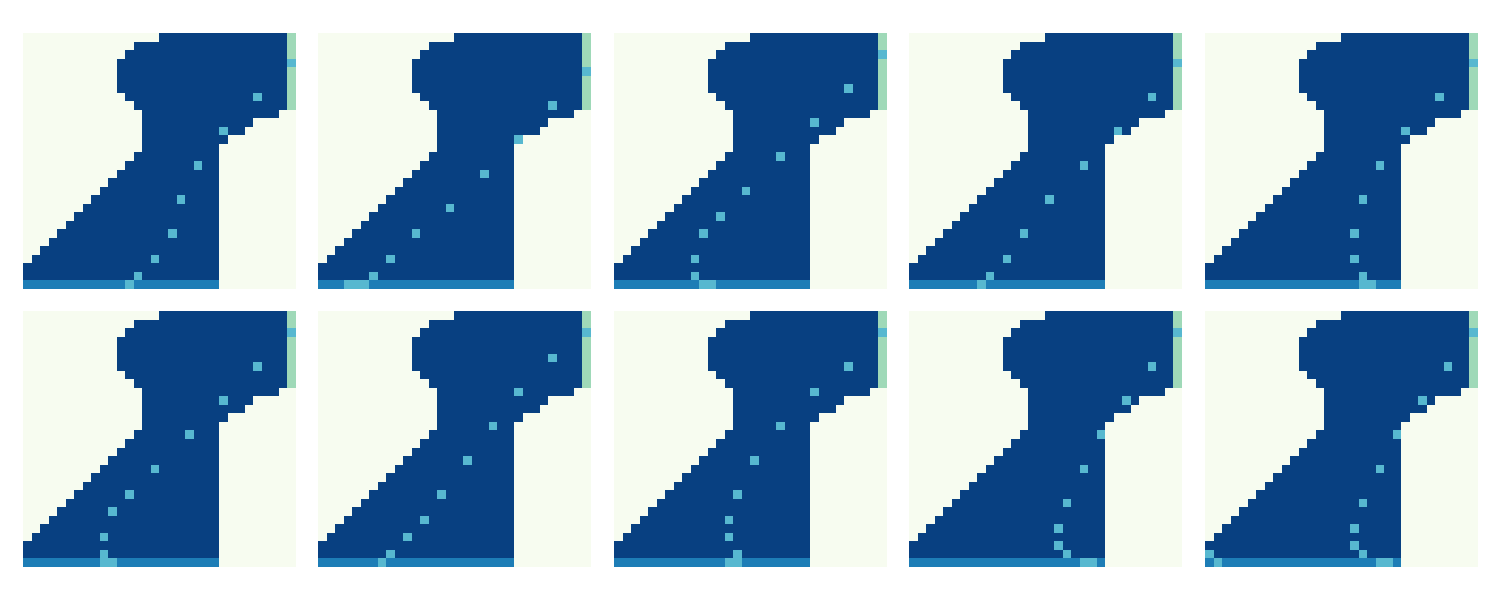
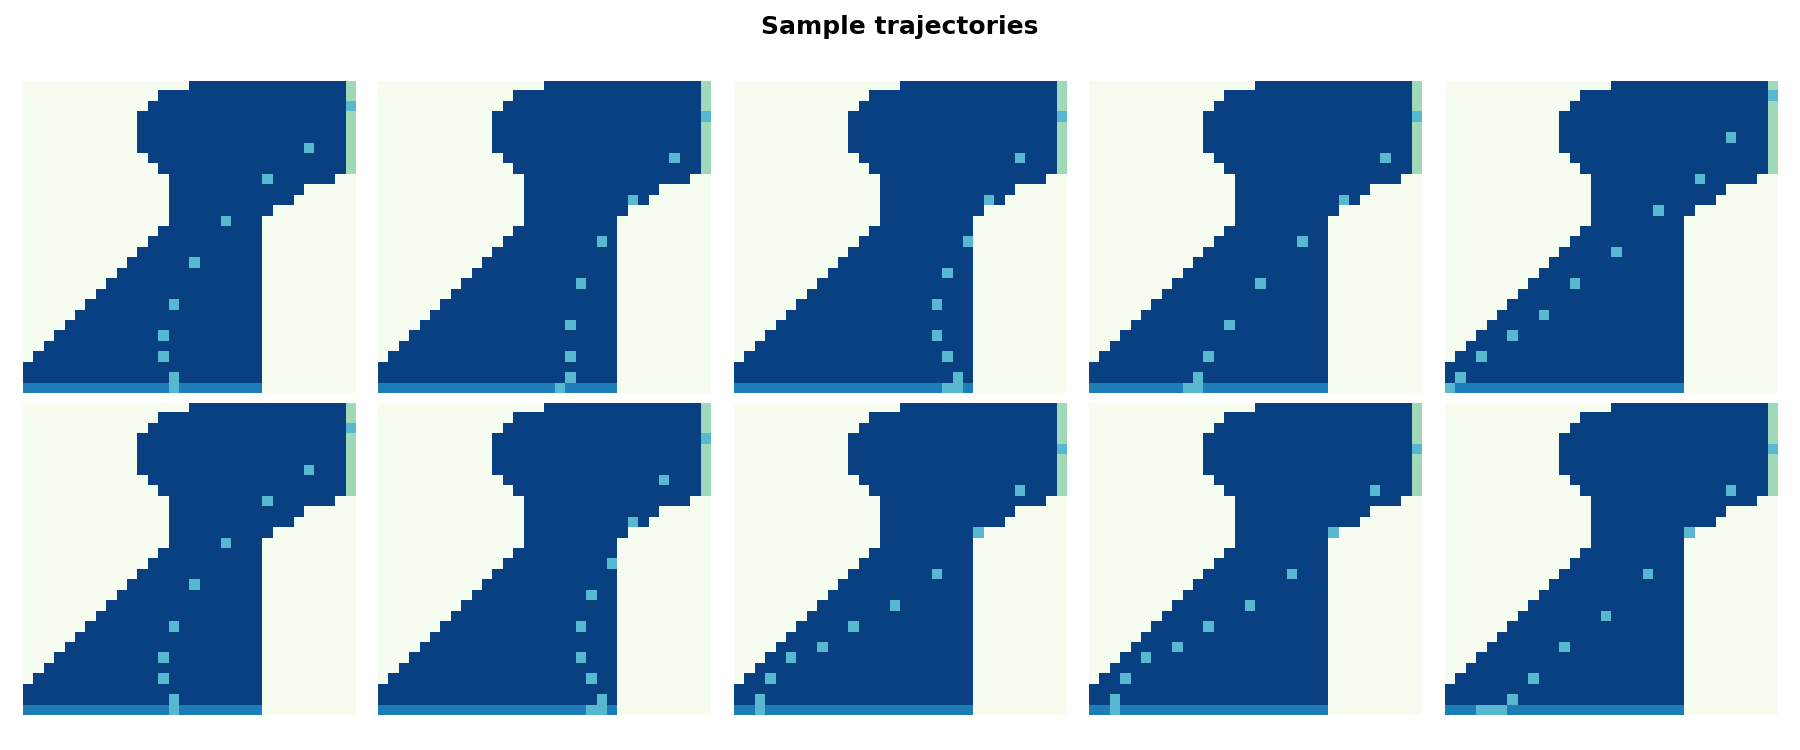
exercise 5.12 updated

diff --git a/chapter_05_monte_carlo_methods/exercise_5_12_racetrack.py b/chapter_05_monte_carlo_methods/exercise_5_12_racetrack.py
@@ -163,7 +163,8 @@ if __name__ == "__main__":
         policy = np.argmax(Q, axis=-1) # greedy policy
         
         env = RaceTrack(track_sel, None, 20)
-        fig = plt.figure(figsize=(10, 4), dpi=150)
+        fig = plt.figure(figsize=(12, 5), dpi=150)
+        fig.suptitle('Sample trajectories', size=12, weight='bold')
 
         for i in range(10):
             track_map = np.copy(env.track_map)
